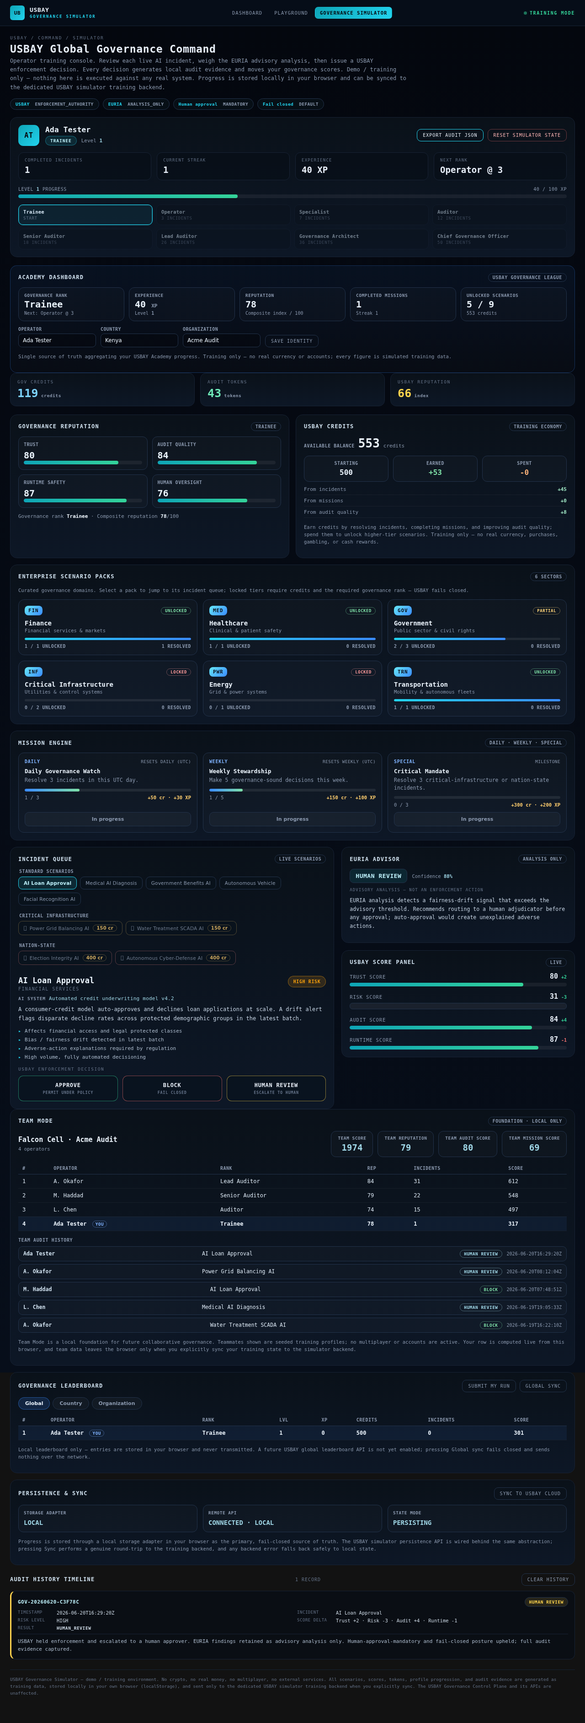
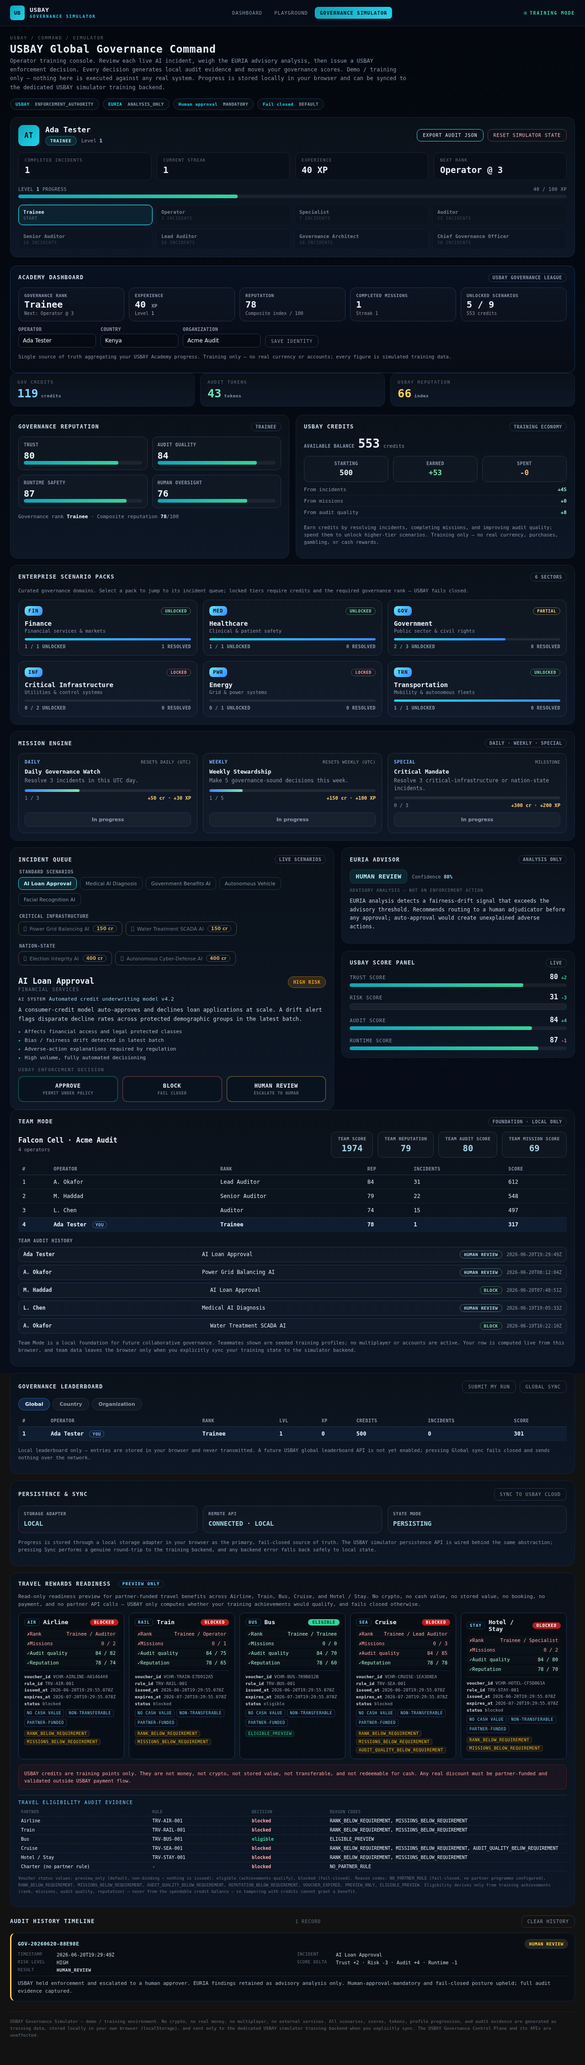
PB-TRAVEL-001: add read-only Travel Rewards Readiness layer to /simulator
Additive, preview-only, fail-closed layer inside governance_simulator_html().
No control-plane or runtime-gateway changes. No crypto/gambling/cash/stored
value/booking/payment/partner-API.

What was added (gateway/app.py, simulator JS/HTML only):
- Travel Rewards panel with 5 partner tiles: Airline/Train/Bus/Cruise/Hotel-Stay.
- Eligibility preview from rank/mission/audit-quality/reputation -> eligible bool.
- Non-monetary voucher model: voucher_id, partner_type, rule_id, issued_at,
  expires_at, status (preview_only/eligible/blocked), cash_value 'none',
  transferable false, funding 'partner_funded'.
- Exact fail-closed disclaimer text.
- Audit evidence table with reason codes incl. a NO_PARTNER_RULE self-test row.
- evalTravelVoucher() derives eligibility ONLY from achievements, never from the
  credit balance, so credit tampering cannot grant a benefit. Exposed on
  window.__usbayTravel for tests.
- renderTravel() wired into renderAll(), decide(), claimMission(), id-save.

Tests: scripts/_shot_travel_v1.py (31/31) covers blocked-when-missing-rule,
blocked-when-incomplete, eligible path, preview_only, expired, credit-tamper,
zero network/payment/booking calls, and existing /simulator routes 200.

Validation: ast.parse OK; ASCII clean; travel 31/31, v5 25/25, v4 26/26, xss
pass, pytest tests/test_simulator_storage.py 13/13. Architect PASSED (after
adding the preview_only state). Security scan: no new findings from this change.
[…]

diff --git a/gateway/app.py b/gateway/app.py
@@ -12251,6 +12251,51 @@ def governance_simulator_html() -> str:
       <p class="ps-note" id="ps-note">Progress is stored through a local storage adapter in your browser as the primary, fail-closed source of truth. The USBAY simulator persistence API is wired behind the same abstraction; pressing Sync performs a genuine round-trip to the training backend, and any backend error falls back safely to local state.</p>
     </section>
 
+    <style>
+      .trv-mode{display:inline-block;margin-left:8px;font-size:9px;letter-spacing:.16em;text-transform:uppercase;color:#7dd3fc;border:1px solid #1f3253;border-radius:999px;padding:2px 8px;vertical-align:middle;}
+      .trv-sub{color:#94a3b8;font-size:11px;line-height:1.55;margin:6px 0 0;}
+      .trv-grid{display:grid;grid-template-columns:repeat(auto-fit,minmax(225px,1fr));gap:10px;margin-top:10px;}
+      .trv-card{border:1px solid #1f3253;border-radius:10px;background:rgba(0,0,0,.28);padding:12px;display:flex;flex-direction:column;gap:8px;}
+      .trv-top{display:flex;align-items:center;gap:8px;}
+      .trv-ab{font-size:9px;letter-spacing:.12em;font-weight:700;color:#7dd3fc;border:1px solid #1f3253;border-radius:6px;padding:2px 6px;}
+      .trv-name{font-weight:700;font-size:13px;color:#e6eefb;}
+      .trv-badge{margin-left:auto;font-size:9px;letter-spacing:.1em;font-weight:700;border-radius:999px;padding:2px 9px;text-transform:uppercase;}
+      .trv-badge.el{color:#052e16;background:#34d399;}
+      .trv-badge.bl{color:#fff;background:#b91c1c;}
+      .trv-reqs{display:flex;flex-direction:column;gap:3px;}
+      .trv-req{display:flex;justify-content:space-between;font-size:10.5px;border-radius:5px;padding:3px 6px;background:rgba(255,255,255,.02);}
+      .trv-req.ok{color:#a7f3d0;} .trv-req.ok span:first-child::before{content:"\\2713 ";}
+      .trv-req.no{color:#fca5a5;} .trv-req.no span:first-child::before{content:"\\2717 ";}
+      .trv-vch{font-family:ui-monospace,Menlo,monospace;font-size:9.5px;color:#94a3b8;line-height:1.55;border-top:1px dashed #1f3253;padding-top:6px;word-break:break-all;}
+      .trv-vch b{color:#cbd5e1;font-weight:600;}
+      .trv-flags{display:flex;flex-wrap:wrap;gap:4px;margin-top:4px;}
+      .trv-flag{font-size:8.5px;letter-spacing:.08em;text-transform:uppercase;color:#7dd3fc;border:1px solid #1f3253;border-radius:4px;padding:1px 5px;}
+      .trv-rcs{display:flex;flex-wrap:wrap;gap:4px;}
+      .trv-rc{font-size:9px;letter-spacing:.06em;color:#fbbf24;border:1px solid #3f3320;background:rgba(251,191,36,.07);border-radius:4px;padding:1px 5px;}
+      .trv-rc.ok{color:#34d399;border-color:#173d2c;background:rgba(52,211,153,.07);}
+      .trv-disc{margin-top:12px;font-size:10.5px;line-height:1.55;color:#fca5a5;border:1px solid #4c1d1d;background:rgba(185,28,28,.08);border-radius:8px;padding:10px 12px;}
+      .trv-aud{margin-top:12px;border-top:1px solid #1f3253;padding-top:10px;}
+      .trv-aud-h{font-size:10px;letter-spacing:.16em;text-transform:uppercase;color:#7dd3fc;margin-bottom:6px;}
+      .trv-arow{display:grid;grid-template-columns:1.2fr .9fr .7fr 2.2fr;gap:8px;font-size:10px;padding:4px 6px;border-bottom:1px solid rgba(31,50,83,.5);}
+      .trv-arow.head{color:#64748b;letter-spacing:.06em;text-transform:uppercase;font-size:8.5px;}
+      .trv-as.el{color:#34d399;font-weight:700;} .trv-as.bl{color:#fca5a5;font-weight:700;}
+      .trv-leg{margin-top:8px;font-size:9px;color:#64748b;line-height:1.6;}
+    </style>
+    <section class="panel trv" aria-label="Travel Rewards Readiness" id="travel">
+      <div class="log-head">
+        <span class="panel-t">Travel Rewards Readiness <span class="trv-mode">Preview Only</span></span>
+      </div>
+      <p class="trv-sub">Read-only readiness preview for partner-funded travel benefits across Airline, Train, Bus, Cruise, and Hotel / Stay. No crypto, no cash value, no stored value, no booking, no payment, and no partner API calls &mdash; USBAY only computes whether your training achievements would qualify, and fails closed otherwise.</p>
+      <div class="trv-grid" id="trv-grid"></div>
+      <p class="trv-disc" id="trv-disc"></p>
+      <div class="trv-aud">
+        <div class="trv-aud-h">Travel Eligibility Audit Evidence</div>
+        <div class="trv-arow head"><span>Partner</span><span>Rule</span><span>Decision</span><span>Reason codes</span></div>
+        <div id="trv-audit"></div>
+        <p class="trv-leg">Voucher status values: preview_only (default, non-binding &mdash; nothing is issued), eligible (achievements qualify), blocked (fail-closed). Reason codes: NO_PARTNER_RULE (fail-closed, no partner programme configured), RANK_BELOW_REQUIREMENT, MISSIONS_BELOW_REQUIREMENT, AUDIT_QUALITY_BELOW_REQUIREMENT, REPUTATION_BELOW_REQUIREMENT, VOUCHER_EXPIRED, PREVIEW_ONLY, ELIGIBLE_PREVIEW. Eligibility derives only from training achievements (rank, missions, audit quality, reputation) &mdash; never from the spendable credit balance &mdash; so tampering with credits cannot grant a benefit.</p>
+      </div>
+    </section>
+
     <section class="log-wrap" aria-label="Audit log">
       <div class="log-head">
         <span class="panel-t">Audit History Timeline</span>
@@ -12367,6 +12412,30 @@ def governance_simulator_html() -> str:
       {name:'Governance Architect', min:36},
       {name:'Chief Governance Officer', min:50}
     ];
+
+    // ---- Travel Rewards Readiness (READ-ONLY, preview-only, fail-closed) --
+    // Architecture/readiness layer ONLY. No crypto, no gambling, no cash
+    // value, no stored value, no real booking, no payment, no partner API.
+    // Eligibility derives ONLY from training achievements (rank, missions,
+    // audit quality, reputation) and NEVER from the spendable credit balance,
+    // so tampering with credits cannot grant a benefit. Vouchers are
+    // non-monetary, non-transferable, partner-funded previews.
+    var TRAVEL_PARTNERS = [
+      {type:'airline', label:'Airline',     ab:'AIR'},
+      {type:'train',   label:'Train',       ab:'RAIL'},
+      {type:'bus',     label:'Bus',         ab:'BUS'},
+      {type:'cruise',  label:'Cruise',      ab:'SEA'},
+      {type:'hotel',   label:'Hotel / Stay', ab:'STAY'}
+    ];
+    // A partner_type absent from this map fails closed -> NO_PARTNER_RULE.
+    var TRAVEL_RULES = {
+      bus:     {rule_id:'TRV-BUS-001',  minRank:'Trainee',       minMissions:0, minAudit:70, minRep:60, validityDays:30},
+      train:   {rule_id:'TRV-RAIL-001', minRank:'Operator',      minMissions:1, minAudit:75, minRep:65, validityDays:30},
+      hotel:   {rule_id:'TRV-STAY-001', minRank:'Specialist',    minMissions:2, minAudit:80, minRep:70, validityDays:30},
+      airline: {rule_id:'TRV-AIR-001',  minRank:'Auditor',       minMissions:2, minAudit:82, minRep:74, validityDays:30},
+      cruise:  {rule_id:'TRV-SEA-001',  minRank:'Lead Auditor',  minMissions:3, minAudit:85, minRep:78, validityDays:30}
+    };
+    var TRAVEL_DISCLAIMER = 'USBAY credits are training points only. They are not money, not crypto, not stored value, not transferable, and not redeemable for cash. Any real discount must be partner-funded and validated outside USBAY payment flow.';
     var TIERS = {
       standard: 'Standard incidents',
       critical: 'Critical infrastructure',
@@ -12965,6 +13034,126 @@ def governance_simulator_html() -> str:
       var oi = document.getElementById('id-org'); if (oi && document.activeElement !== oi) oi.value = pr.org;
     }
 
+    function rankIndex(name){ for (var i=0;i<RANKS.length;i++){ if (RANKS[i].name === name) return i; } return -1; }
+    function travelMissionsDone(){
+      var m = state.missions || {};
+      var n = 0;
+      if (m.daily && m.daily.claimed) n++;
+      if (m.weekly && m.weekly.claimed) n++;
+      if (m.special && m.special.claimed) n++;
+      return n;
+    }
+    // Pure, tamper-resistant evaluator. opts.now (ms) and opts.expiresAt (ms)
+    // are overridable for tests. Returns a non-monetary voucher preview.
+    function evalTravelVoucher(partnerType, opts){
+      opts = opts || {};
+      var nowMs = (typeof opts.now === 'number') ? opts.now : Date.now();
+      var rule = TRAVEL_RULES[partnerType];
+      var v = {
+        voucher_id: 'VCHR-' + String(partnerType || 'unknown').toUpperCase() + '-' + hex(8),
+        partner_type: partnerType || 'unknown',
+        rule_id: rule ? rule.rule_id : null,
+        issued_at: new Date(nowMs).toISOString(),
+        expires_at: null,
+        status: 'blocked',
+        reasons: [],
+        cash_value: 'none',
+        transferable: false,
+        funding: 'partner_funded'
+      };
+      if (!rule){ v.reasons.push('NO_PARTNER_RULE'); return v; }
+      var expBase = (typeof opts.expiresAt === 'number') ? opts.expiresAt : (nowMs + rule.validityDays * 86400000);
+      // Non-binding preview: a voucher instantiated but not run through an
+      // eligibility decision. Asserts nothing (fail-closed: confers no benefit).
+      if (opts.preview === true){
+        v.status = 'preview_only';
+        v.expires_at = new Date(expBase).toISOString();
+        v.reasons.push('PREVIEW_ONLY');
+        return v;
+      }
+      var pr = state.profile || {completed:0};
+      var sc = state.scores || {audit:0};
+      var haveRankIdx = rankIndex(rankFor(pr.completed || 0).name);
+      var needRankIdx = rankIndex(rule.minRank);
+      if (haveRankIdx < needRankIdx) v.reasons.push('RANK_BELOW_REQUIREMENT');
+      if (travelMissionsDone() < rule.minMissions) v.reasons.push('MISSIONS_BELOW_REQUIREMENT');
+      if (num(sc.audit, 0) < rule.minAudit) v.reasons.push('AUDIT_QUALITY_BELOW_REQUIREMENT');
+      if (repIndex() < rule.minRep) v.reasons.push('REPUTATION_BELOW_REQUIREMENT');
+      var expMs = expBase;
+      v.expires_at = new Date(expMs).toISOString();
+      if (expMs <= nowMs) v.reasons.push('VOUCHER_EXPIRED');
+      if (v.reasons.length === 0){ v.status = 'eligible'; v.reasons.push('ELIGIBLE_PREVIEW'); }
+      return v;
+    }
+    function trvReqRow(label, ok, detail){
+      return '<div class="trv-req ' + (ok ? 'ok' : 'no') + '"><span>' + esc(label) + '</span><span>' + esc(detail) + '</span></div>';
+    }
+    function trvAuditRow(label, v){
+      return '<div class="trv-arow">' +
+        '<span>' + esc(label) + '</span>' +
+        '<span>' + esc(String(v.rule_id || '-')) + '</span>' +
+        '<span class="trv-as ' + (v.status === 'eligible' ? 'el' : 'bl') + '">' + esc(v.status) + '</span>' +
+        '<span>' + esc(v.reasons.join(', ')) + '</span>' +
+        '</div>';
+    }
+    function renderTravelAudit(){
+      var box = document.getElementById('trv-audit'); if (!box) return;
+      var rows = TRAVEL_PARTNERS.map(function(p){ return trvAuditRow(p.label, evalTravelVoucher(p.type, {})); });
+      // Fail-closed self-test: a partner_type with NO configured rule.
+      rows.push(trvAuditRow('Charter (no partner rule)', evalTravelVoucher('charter', {})));
+      box.innerHTML = rows.join('');
+    }
+    function renderTravel(){
+      var disc = document.getElementById('trv-disc'); if (disc) disc.textContent = TRAVEL_DISCLAIMER;
+      var grid = document.getElementById('trv-grid'); if (!grid) return;
+      var pr = state.profile || {completed:0};
+      var sc = state.scores || {audit:0};
+      var haveRankName = rankFor(pr.completed || 0).name;
+      var haveRankIdx = rankIndex(haveRankName);
+      var missionsDone = travelMissionsDone();
+      var audit = num(sc.audit, 0);
+      var rep = repIndex();
+      grid.innerHTML = TRAVEL_PARTNERS.map(function(p){
+        var rule = TRAVEL_RULES[p.type];
+        var v = evalTravelVoucher(p.type, {});
+        var reqs;
+        if (rule){
+          reqs =
+            trvReqRow('Rank', haveRankIdx >= rankIndex(rule.minRank), haveRankName + ' / ' + rule.minRank) +
+            trvReqRow('Missions', missionsDone >= rule.minMissions, missionsDone + ' / ' + rule.minMissions) +
+            trvReqRow('Audit quality', audit >= rule.minAudit, audit + ' / ' + rule.minAudit) +
+            trvReqRow('Reputation', rep >= rule.minRep, rep + ' / ' + rule.minRep);
+        } else {
+          reqs = '<div class="trv-req no"><span>Partner rule</span><span>missing</span></div>';
+        }
+        var chips = v.reasons.map(function(rc){ return '<span class="trv-rc' + (rc === 'ELIGIBLE_PREVIEW' ? ' ok' : '') + '">' + esc(rc) + '</span>'; }).join('');
+        var vch =
+          '<div class="trv-vch">' +
+          '<div><b>voucher_id</b> ' + esc(v.voucher_id) + '</div>' +
+          '<div><b>rule_id</b> ' + esc(String(v.rule_id)) + '</div>' +
+          '<div><b>issued_at</b> ' + esc(v.issued_at) + '</div>' +
+          '<div><b>expires_at</b> ' + esc(String(v.expires_at)) + '</div>' +
+          '<div><b>status</b> ' + esc(v.status) + '</div>' +
+          '<div class="trv-flags"><span class="trv-flag">No cash value</span><span class="trv-flag">Non-transferable</span><span class="trv-flag">Partner-funded</span></div>' +
+          '</div>';
+        return '<div class="trv-card" data-trv="' + esc(p.type) + '">' +
+          '<div class="trv-top"><span class="trv-ab">' + esc(p.ab) + '</span><span class="trv-name">' + esc(p.label) + '</span>' +
+          '<span class="trv-badge ' + (v.status === 'eligible' ? 'el' : 'bl') + '">' + (v.status === 'eligible' ? 'Eligible' : 'Blocked') + '</span></div>' +
+          '<div class="trv-reqs">' + reqs + '</div>' + vch + '<div class="trv-rcs">' + chips + '</div>' +
+          '</div>';
+      }).join('');
+      renderTravelAudit();
+    }
+    try {
+      window.__usbayTravel = {
+        evalVoucher: evalTravelVoucher,
+        rules: TRAVEL_RULES,
+        partners: TRAVEL_PARTNERS,
+        missionsDone: travelMissionsDone,
+        disclaimer: TRAVEL_DISCLAIMER
+      };
+    } catch (e) {}
+
     function renderMissions(){
       rollMissions();
       var defs = [
@@ -13027,7 +13216,7 @@ def governance_simulator_html() -> str:
       state.profile.xp += m.xp;
       state.profile.level = levelFor(state.profile.xp);
       save();
-      renderCredits(); renderProfile(); renderTrack(); renderMissions(); renderAcademy();
+      renderCredits(); renderProfile(); renderTrack(); renderMissions(); renderAcademy(); renderTravel();
     }
 
     function submitLeaderboard(){
@@ -13140,7 +13329,7 @@ def governance_simulator_html() -> str:
       save();
       renderTokens(); renderScores(); renderLog(); renderProfile(); renderTrack();
       renderCredits(); renderReputation(); renderMissions(); renderPacks(); renderTeam(); renderPersist();
-      renderAcademy(); renderLeaderboard(); showVerdict(res);
+      renderAcademy(); renderLeaderboard(); renderTravel(); showVerdict(res);
     }
 
     function firstUnlockedIdx(){
@@ -13161,7 +13350,7 @@ def governance_simulator_html() -> str:
       renderRail(); renderIncident(); renderEuria();
       renderTokens(); renderScores(); renderLog(); renderProfile(); renderTrack();
       renderCredits(); renderReputation(); renderMissions(); renderLeaderboard();
-      renderPacks(); renderTeam(); renderPersist(); renderAcademy();
+      renderPacks(); renderTeam(); renderPersist(); renderAcademy(); renderTravel();
       try { persistence.refreshRemote().then(function(){ renderPersist(); }); } catch(e){}
     }
 
@@ -13260,7 +13449,7 @@ def governance_simulator_html() -> str:
       state.profile.country = co || 'Global';
       state.profile.org = og || 'Independent';
       save();
-      renderProfile(); renderAcademy(); renderTeam(); renderLeaderboard();
+      renderProfile(); renderAcademy(); renderTeam(); renderLeaderboard(); renderTravel();
     });
     document.getElementById('tm-create-btn').addEventListener('click', function(){
       var nm = (document.getElementById('tm-in-name').value || '').slice(0, 48).trim();

diff --git a/scripts/_shot_travel_v1.py b/scripts/_shot_travel_v1.py
@@ -1,0 +1,125 @@
+import os
+from playwright.sync_api import sync_playwright
+
+URL = "http://localhost:5000/simulator"
+ROUTES = ["/simulator", "/", "/dashboard", "/playground", "/health", "/simulator/storage/health"]
+OUT = "/home/runner/workspace/evidence/audit"
+os.makedirs(OUT, exist_ok=True)
+
+errors = []
+results = []
+
+def check(name, cond):
+    results.append((name, bool(cond)))
+    print(("PASS " if cond else "FAIL ") + name, flush=True)
+
+with sync_playwright() as p:
+    browser = p.chromium.launch(executable_path=os.environ.get("CHROME") or p.chromium.executable_path, headless=True,
+                                args=["--no-sandbox", "--disable-dev-shm-usage", "--disable-gpu"])
+    ctx = browser.new_context(viewport={"width": 1280, "height": 3200}, device_scale_factor=1)
+    page = ctx.new_page()
+    page.on("console", lambda m: errors.append(m.text) if m.type == "error" else None)
+    page.on("pageerror", lambda e: errors.append("PAGEERROR: " + str(e)))
+
+    page.goto(URL, wait_until="domcontentloaded", timeout=45000)
+    page.evaluate("() => { try { localStorage.clear(); } catch(e){} }")
+    page.reload(wait_until="domcontentloaded")
+    page.wait_for_selector("#travel", timeout=15000)
+    page.add_style_tag(content="*{transition:none !important;animation:none !important;}")
+
+    # Panel + exact disclaimer present
+    check("travel panel present", page.query_selector("#travel") is not None)
+    EXPECT_DISC = ("USBAY credits are training points only. They are not money, not crypto, "
+                   "not stored value, not transferable, and not redeemable for cash. Any real "
+                   "discount must be partner-funded and validated outside USBAY payment flow.")
+    check("fail-closed disclaimer exact text", page.eval_on_selector("#trv-disc", "e => e.textContent") == EXPECT_DISC)
+    # All five partner types rendered
+    cards = page.eval_on_selector_all("#trv-grid .trv-card", "els => els.map(e => e.getAttribute('data-trv')).join('|')")
+    check("five partner types rendered", cards == "airline|train|bus|cruise|hotel")
+    # Voucher model fields exposed in UI
+    vch0 = page.eval_on_selector("#trv-grid .trv-card .trv-vch", "e => e.textContent")
+    check("voucher exposes id/rule/status fields", all(k in vch0 for k in ["voucher_id", "rule_id", "status", "expires_at"]))
+    check("voucher shows non-monetary flags", page.query_selector("#trv-grid .trv-flags") is not None)
+
+    # TEST 1: blocked when partner rule missing -> NO_PARTNER_RULE
+    v_missing = page.evaluate("() => window.__usbayTravel.evalVoucher('charter', {})")
+    check("missing partner rule -> blocked", v_missing["status"] == "blocked")
+    check("missing partner rule -> NO_PARTNER_RULE", "NO_PARTNER_RULE" in v_missing["reasons"])
+    check("missing partner rule -> rule_id null", v_missing["rule_id"] is None)
+
+    # TEST 2: blocked when eligibility incomplete (fresh state, high-tier partner)
+    v_cruise = page.evaluate("() => window.__usbayTravel.evalVoucher('cruise', {})")
+    check("incomplete eligibility -> blocked", v_cruise["status"] == "blocked")
+    check("incomplete eligibility -> RANK reason", "RANK_BELOW_REQUIREMENT" in v_cruise["reasons"])
+    check("incomplete eligibility -> MISSIONS reason", "MISSIONS_BELOW_REQUIREMENT" in v_cruise["reasons"])
+    # entry-tier partner (bus) is eligible on fresh state -> proves eligible path works
+    v_bus = page.evaluate("() => window.__usbayTravel.evalVoucher('bus', {})")
+    check("entry-tier partner eligible on fresh state", v_bus["status"] == "eligible")
+    check("eligible voucher carries ELIGIBLE_PREVIEW", "ELIGIBLE_PREVIEW" in v_bus["reasons"])
+    check("eligible voucher partner-funded non-transferable no-cash",
+          v_bus["funding"] == "partner_funded" and v_bus["transferable"] is False and v_bus["cash_value"] == "none")
+
+    # preview_only: non-binding voucher (instantiated but not evaluated)
+    v_prev = page.evaluate("() => window.__usbayTravel.evalVoucher('hotel', {preview: true})")
+    check("preview mode -> preview_only status", v_prev["status"] == "preview_only")
+    check("preview voucher carries PREVIEW_ONLY reason", "PREVIEW_ONLY" in v_prev["reasons"])
+    check("preview voucher non-monetary", v_prev["cash_value"] == "none" and v_prev["transferable"] is False and v_prev["funding"] == "partner_funded")
+
+    # TEST 3: blocked when voucher is expired (otherwise-eligible partner, expiry in the past)
+    v_exp = page.evaluate("() => window.__usbayTravel.evalVoucher('bus', {now: 1000000, expiresAt: 999000})")
+    check("expired voucher -> blocked", v_exp["status"] == "blocked")
+    check("expired voucher -> VOUCHER_EXPIRED", "VOUCHER_EXPIRED" in v_exp["reasons"])
+
+    # TEST 4: blocked / unchanged when client tampers with credits
+    before = page.evaluate("() => window.__usbayTravel.partners.map(p => window.__usbayTravel.evalVoucher(p.type, {}).status)")
+    page.evaluate("""() => {
+        try {
+            state.credits.start = 100000000;
+            state.credits.earned = 100000000;
+            state.credits.spent = 0;
+            state.credits.sources = {incidents: 100000000, missions: 100000000, audit: 100000000};
+        } catch(e){}
+    }""")
+    after = page.evaluate("() => window.__usbayTravel.partners.map(p => window.__usbayTravel.evalVoucher(p.type, {}).status)")
+    check("credit tamper does not change eligibility statuses", before == after)
+    v_air_tamper = page.evaluate("() => window.__usbayTravel.evalVoucher('airline', {})")
+    check("credit tamper leaves blocked partner blocked", v_air_tamper["status"] == "blocked")
+
+    # TEST 5: no network / payment / booking call exists
+    seen = []
+    page.on("request", lambda r: seen.append(r.url))
+    seen.clear()
+    page.evaluate("() => { window.__usbayTravel.partners.forEach(p => window.__usbayTravel.evalVoucher(p.type, {})); }")
+    page.wait_for_timeout(300)
+    travel_requests = [u for u in seen if u]
+    check("evaluating travel triggers zero network requests", len(travel_requests) == 0)
+    src = page.content().lower()
+    # travel layer must not reference booking/payment/checkout rails
+    banned = ["stripe", "paypal", "checkout.session", "payment_intent", "/book", "booking_id", "card_number"]
+    check("no payment/booking rails referenced", not any(b in src for b in banned))
+
+    # TEST 6: audit evidence section shows decisions incl. missing-rule self-test
+    arows = page.eval_on_selector_all("#trv-audit .trv-arow", "els => els.length")
+    check("audit evidence lists every partner + self-test", arows == 6)
+    audit_txt = page.eval_on_selector("#trv-audit", "e => e.textContent")
+    check("audit evidence surfaces NO_PARTNER_RULE state", "NO_PARTNER_RULE" in audit_txt)
+
+    # Existing simulator routes still return 200
+    for rt in ROUTES:
+        resp = page.request.get("http://localhost:5000" + rt)
+        check("route 200 " + rt, resp.status == 200)
+
+    page.goto(URL, wait_until="domcontentloaded", timeout=30000)
+    page.wait_for_selector("#travel", timeout=15000)
+    page.add_style_tag(content="*{transition:none !important;animation:none !important;}")
+    page.screenshot(path=os.path.join(OUT, "travel_v1.png"), full_page=True)
+    page.locator("#travel").screenshot(path=os.path.join(OUT, "travel_panel_v1.png"))
+
+    browser.close()
+
+print("\nCONSOLE ERRORS:", "NONE" if not errors else "")
+for e in errors:
+    print("  -", e)
+passed = sum(1 for _, ok in results if ok)
+print("RESULT: %d/%d checks passed" % (passed, len(results)))
+print("DONE")

diff --git a/.agents/memory/usbay-governance-dashboard.md b/.agents/memory/usbay-governance-dashboard.md
@@ -152,3 +152,10 @@ The `/simulator` console (`governance_simulator_html`, distinct from the `_simul
 - Frontend: `SIM_VERSION` bumped 4.0→5.0 but **`LS_KEY` stays `usbay_sim_state_v2`** (do not bump — would orphan saved state). New `CID_KEY` keys the backend client id. RemoteApiAdapter is now a WORKING round-trip (health/push/pull, async `syncRemote`); localStorage stays PRIMARY fail-closed fallback so a dead backend never blocks play. New state: `profile.country/org`, `credits.sources{incidents,missions,audit}`, `team{name,org,created}`, leaderboard entry `country/org`; normalizers `normCredits/normTeam/normLbEntry`.
 **Contract-copy lockstep (architect caught this):** once the simulator actually transmits state to the backend, EVERY user-facing string claiming "never transmitted / nothing is transmitted / no network sync" becomes a false contract and MUST be updated in the same change (lede, `ac-note`, `tm-note`, `ps-note`, footer). The leaderboard "Global sync" button (`lb-global`) is the ONE thing still fully fail-closed/local-only — its copy ("sends nothing over the network") stays accurate; don't "fix" it.
 **Verification:** `tests/test_simulator_storage.py` (13). Playwright suites `scripts/_shot_simulator_v2..v5.py` + `_xss.py` — when bumping SIM_VERSION, the export-version assertions in v2/v4 must move in lockstep (they hardcode `usbay-sim-N.0`); v5 is the comprehensive 25-check suite. Same foreground/no-pkill chromium rules as the evidence scripts.
+
+## Travel Rewards Readiness (`#travel`) — preview-only eligibility layer in the SIMULATOR
+ADDITIVE read-only layer inside `governance_simulator_html()` (the `/simulator` Academy console, NOT the `_simulator_block_html()` preview block). Five partner tiles (airline/train/bus/cruise/hotel) + voucher model + exact fail-closed disclaimer + audit-evidence table. Wired into `renderAll()`, `decide()`, `claimMission()`, and the id-save handler via `renderTravel()`.
+**Tamper invariant (the whole point):** `evalTravelVoucher(partnerType, opts)` derives eligibility ONLY from achievements — rank (`rankFor(profile.completed)`), claimed missions, `scores.audit`, `repIndex()` — and NEVER reads `state.credits`. So inflating the credit balance cannot flip eligibility. Keep it that way.
+**Status enum is preview_only/eligible/blocked:** missing partner rule → `blocked`+`NO_PARTNER_RULE` (checked FIRST, fail-closed); `opts.preview===true` → `preview_only`+`PREVIEW_ONLY` (non-binding, confers nothing, only for known partners); else eligible/blocked from reqs + expiry (`VOUCHER_EXPIRED` when `expires_at<=now`). Thresholds are tiered so bus is eligible on FRESH default state (rank Trainee, audit 80, rep 75, 0 missions) and the other four are blocked — gives a mixed screenshot.
+**Why a `window.__usbayTravel` export:** the eval fn lives in the IIFE; Playwright drives missing-rule/expired/tamper/preview cases via `window.__usbayTravel.evalVoucher(...)` (opts.now/opts.expiresAt/opts.preview overridable). `renderTravel` itself is NOT global.
+**How to apply:** CSS lives in a scoped inline `<style>` (`.trv-*`) before the audit-log `<section>`; the `\2713`/`\2717` content escapes must be written `\\2713`/`\\2717` in the Python source (plain triple-quoted string → `\\`→`\`). All dynamic values `esc()`'d. Test: `scripts/_shot_travel_v1.py` (31/31) → `evidence/audit/travel_v1.png` + `travel_panel_v1.png`. No crypto/gambling/cash/stored-value/booking/payment/partner-API; control plane untouched. Architect PASSED after adding the preview_only state.
